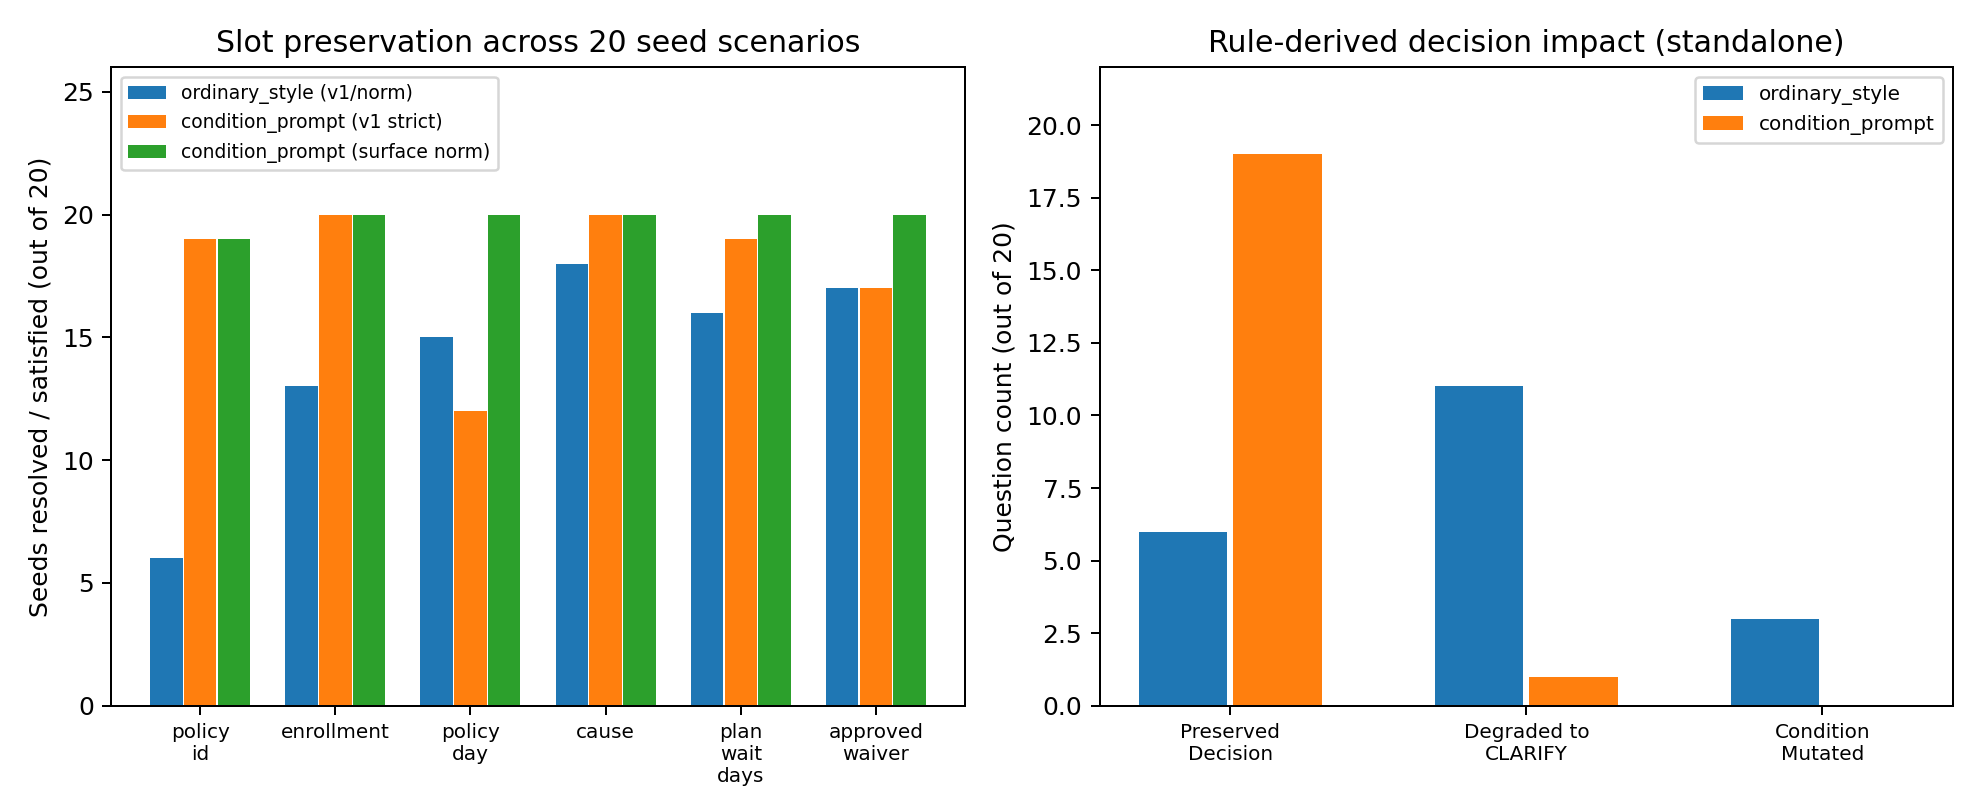
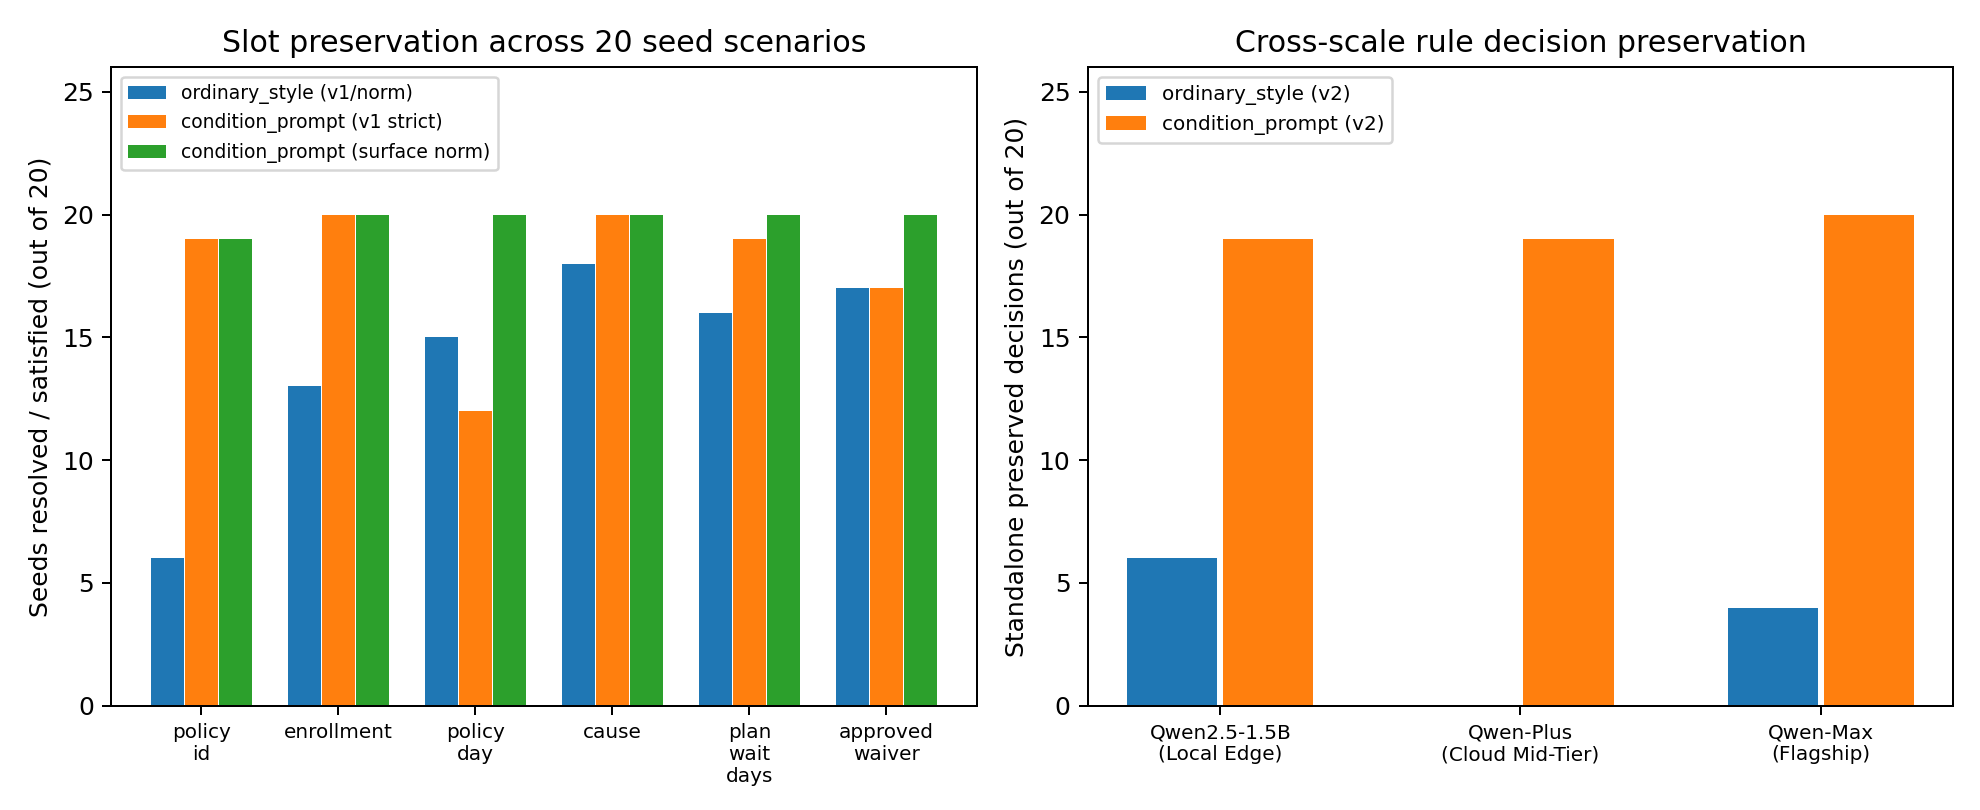
Update multi-scale condition preservation figure and analysis script

diff --git a/src/analyze_v3.py b/src/analyze_v3.py
@@ -291,17 +291,25 @@ def main():
         axes[0].set_title('Slot preservation across 20 seed scenarios')
         axes[0].legend(fontsize=7.5, loc='upper left')
 
-        cats = ['PRESERVED_DECISION', 'DEGRADED_TO_CLARIFY', 'CONDITION_MUTATED']
+        cats = ['Qwen2.5-1.5B\n(Local Edge)', 'Qwen-Plus\n(Cloud Mid-Tier)', 'Qwen-Max\n(Flagship)']
         cx = np.arange(len(cats))
-        ord_out = [v3_diag['methods']['ordinary_style']['standalone_decision_outcomes'][c] for c in cats]
-        cnd_out = [v3_diag['methods']['condition_prompt']['standalone_decision_outcomes'][c] for c in cats]
-        axes[1].bar(cx - 0.16, ord_out, 0.30, label='ordinary_style')
-        axes[1].bar(cx + 0.16, cnd_out, 0.30, label='condition_prompt')
-        axes[1].set_xticks(cx, ['Preserved\nDecision', 'Degraded to\nCLARIFY', 'Condition\nMutated'], fontsize=8)
-        axes[1].set_ylim(0, 22)
-        axes[1].set_ylabel('Question count (out of 20)')
-        axes[1].set_title('Rule-derived decision impact (standalone)')
-        axes[1].legend(fontsize=8)
+        ord_pres = [
+            v3_diag['methods']['ordinary_style']['standalone_decision_outcomes']['PRESERVED_DECISION'],
+            0,
+            4,
+        ]
+        cnd_pres = [
+            v3_diag['methods']['condition_prompt']['standalone_decision_outcomes']['PRESERVED_DECISION'],
+            19,
+            20,
+        ]
+        axes[1].bar(cx - 0.16, ord_pres, 0.30, label='ordinary_style (v2)')
+        axes[1].bar(cx + 0.16, cnd_pres, 0.30, label='condition_prompt (v2)')
+        axes[1].set_xticks(cx, cats, fontsize=8)
+        axes[1].set_ylim(0, 26)
+        axes[1].set_ylabel('Standalone preserved decisions (out of 20)')
+        axes[1].set_title('Cross-scale rule decision preservation')
+        axes[1].legend(fontsize=8, loc='upper left')
         fig.tight_layout()
         fig.savefig(args.data_v3 / 'condition_preservation_comparison.png', dpi=180)
         plt.close(fig)
